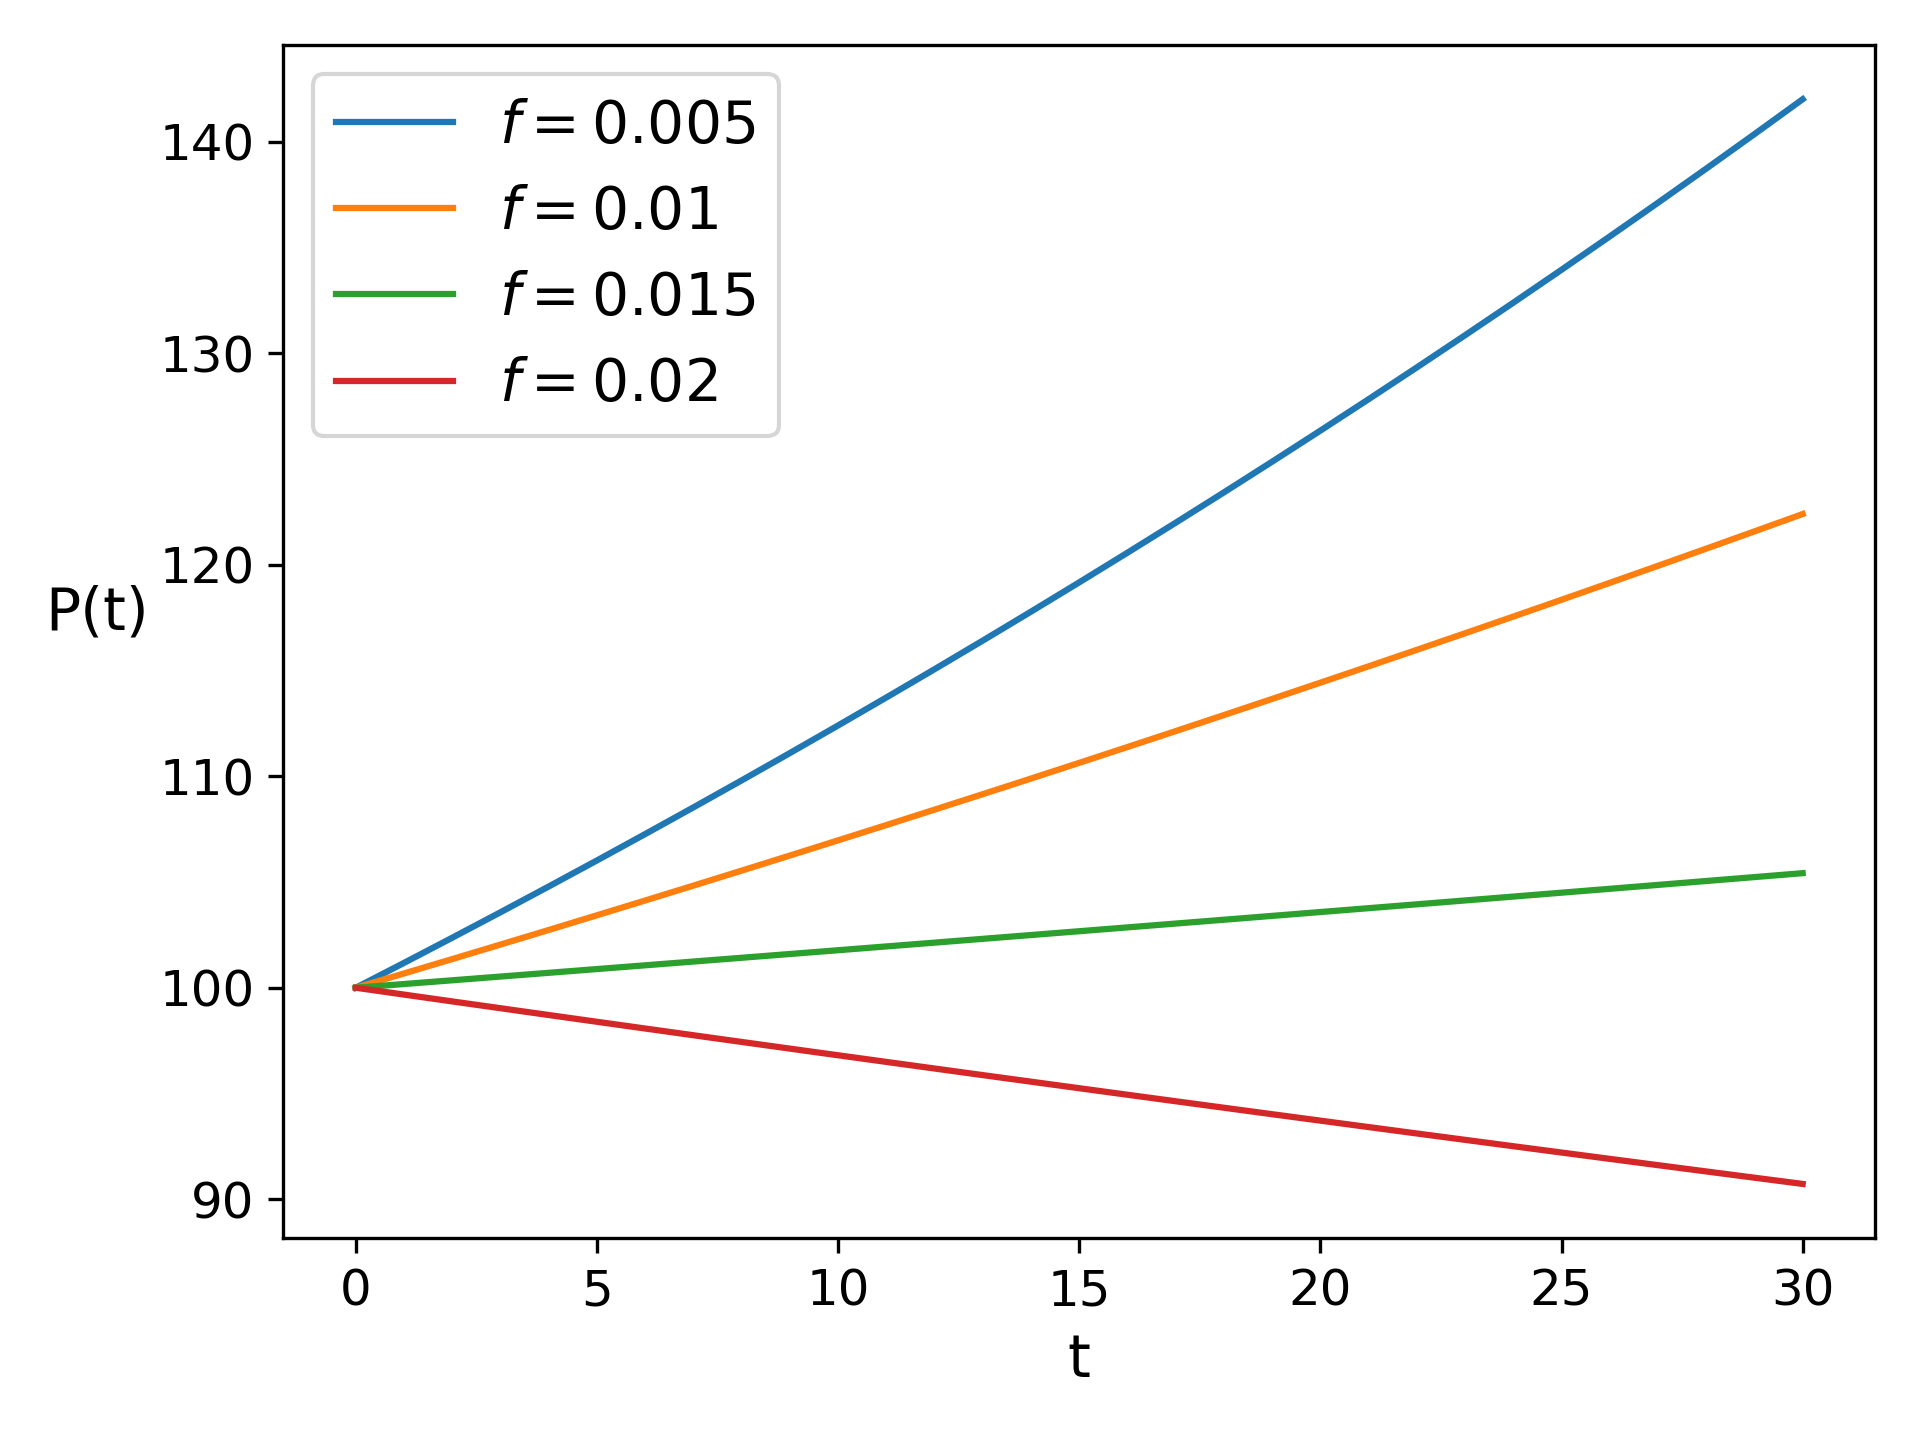
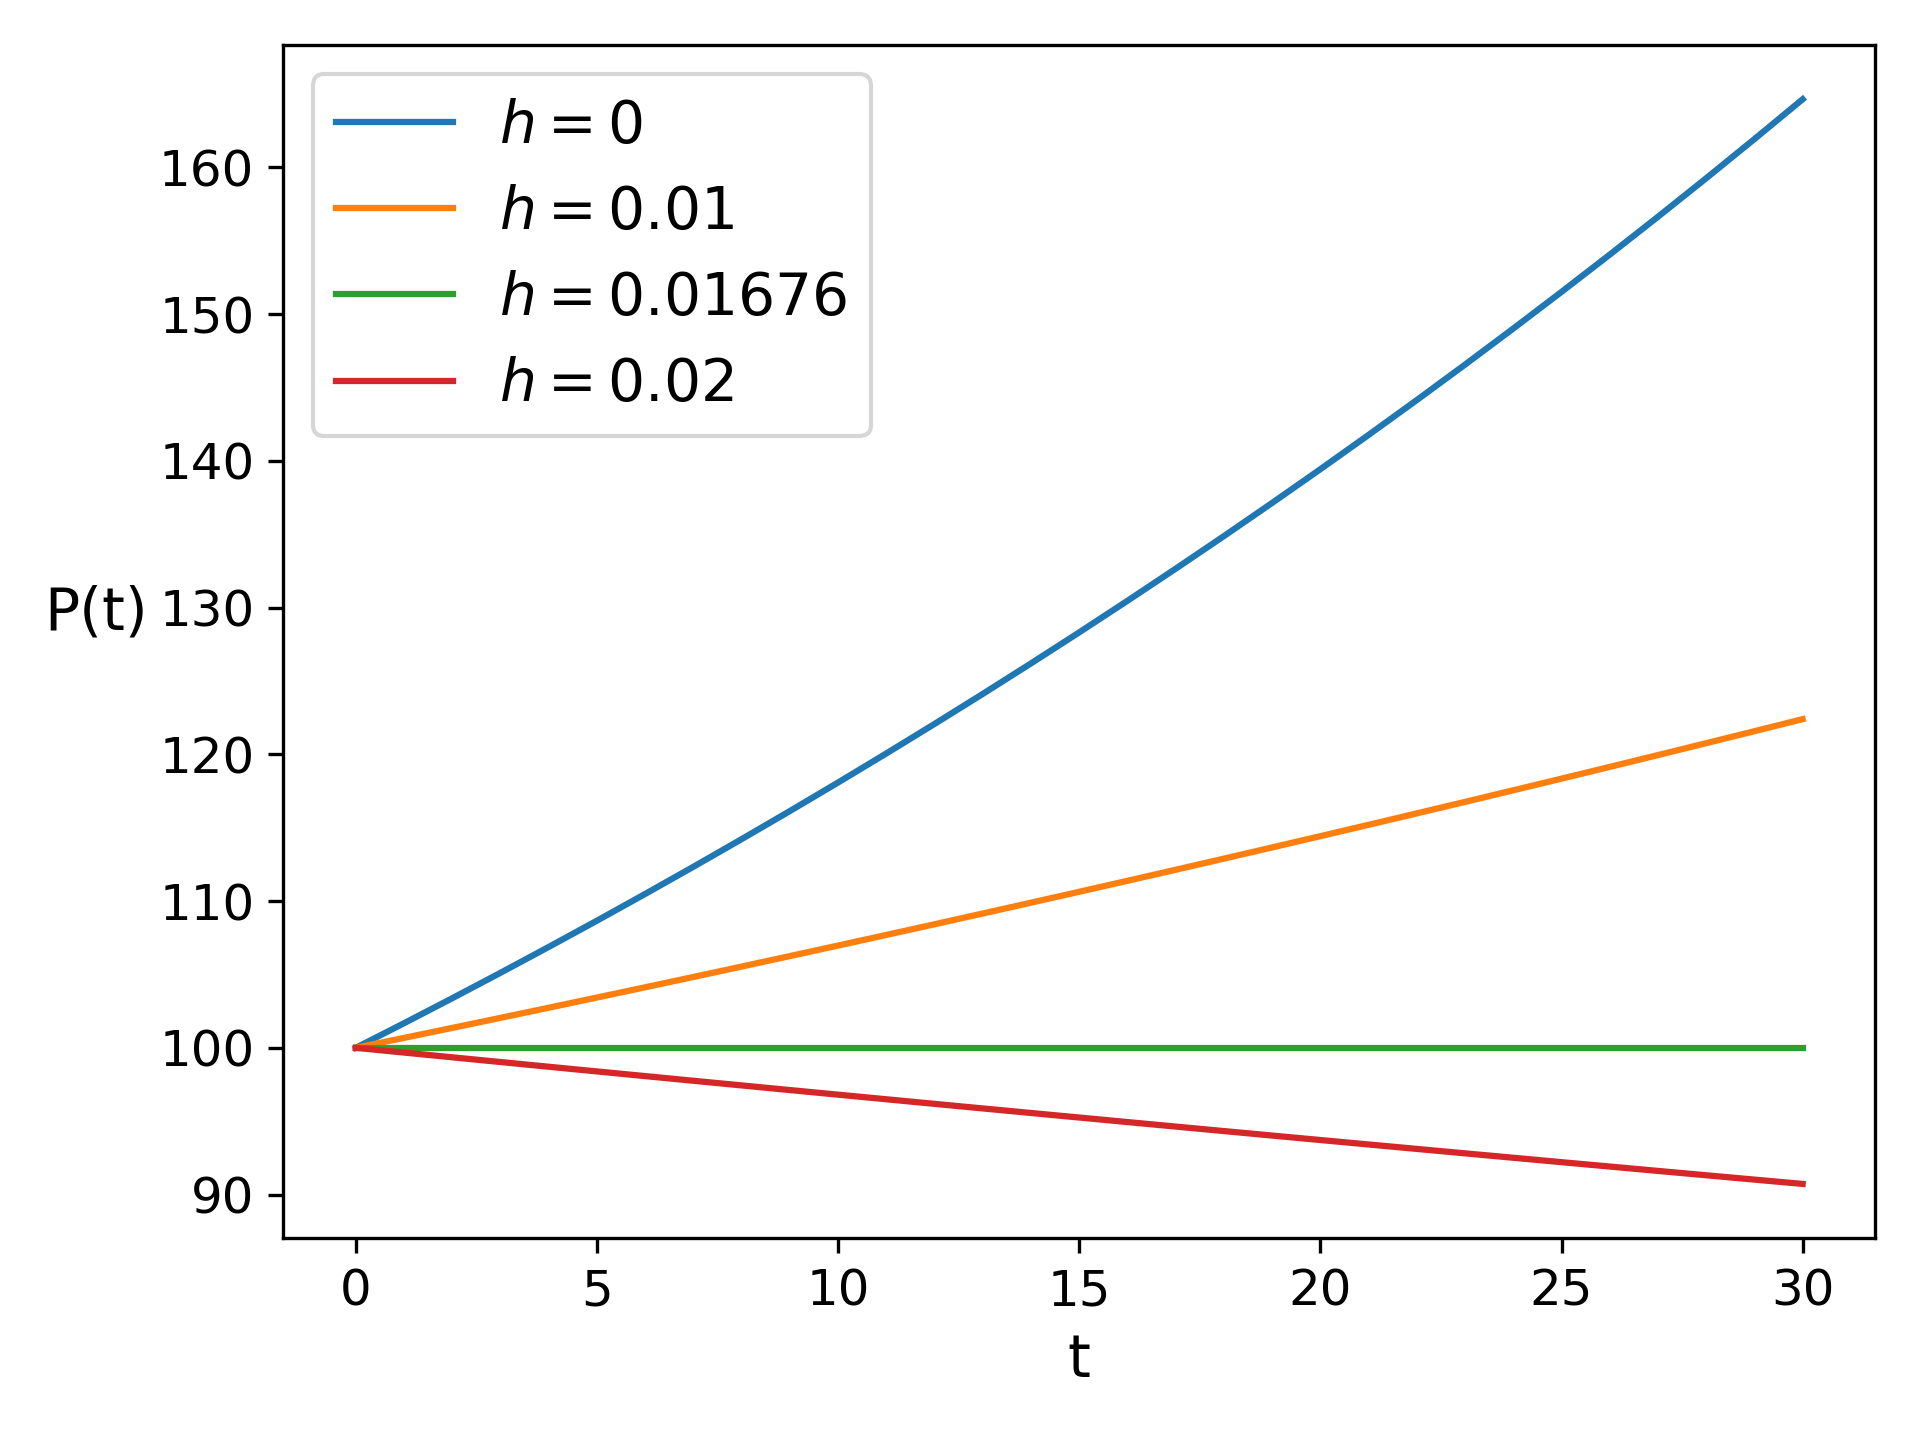
refined hunting simulation data and graphs

diff --git a/q2-percentage.py b/q2-percentage.py
@@ -1,0 +1,47 @@
+import matplotlib.pyplot as plt
+import numpy as np
+
+# Our growth rate in the "best of cases"
+r = 0.01676
+
+# Our initial population
+P = 100
+
+# Our two time frames
+SHORT_TERM = 30
+LONG_TERM = 70
+
+# fixed percentage hunting rates
+h = [0, 0.01, r, 0.02]
+
+# populations for each hunting type
+p = [[P] for _ in range(len(h))]
+
+# Now we gather our "simulation" data
+# Following the equation P(t) = P(t-1) * (r + 1 - h) for percentage hunting
+for _ in range(LONG_TERM ):
+    for i in range(len(h)):
+        p[i].append(p[i][-1] * (r + 1 - h[i]))
+
+def config_plt():
+    plt.xlabel("t", fontsize=14)
+    plt.ylabel("P(t)", fontsize=14, rotation='horizontal', labelpad=15)
+    plt.legend(fontsize=14)
+    plt.xticks(fontsize=12)
+    plt.yticks(fontsize=12)
+    plt.tight_layout()
+
+# Plot the collected data for percentage hunting
+t = np.arange(SHORT_TERM + 1)
+for i, pop in enumerate(p):
+    plt.plot(t, pop[:SHORT_TERM + 1], label = f"$h = {h[i]}$")
+config_plt()
+plt.savefig('./hunting/percentage_short_term.png', dpi=300)
+plt.close()
+
+t = np.arange(LONG_TERM + 1)
+for i, pop in enumerate(p):
+    plt.plot(t, pop, label = f"$h = {h[i]}$")
+config_plt()
+plt.savefig('./hunting/percentage_long_term.png', dpi=300)
+plt.close()

diff --git a/q2-amount.py b/q2-amount.py
@@ -1,0 +1,47 @@
+import matplotlib.pyplot as plt
+import numpy as np
+
+# Our growth rate in the "best of cases"
+r = 0.01676
+
+# Our initial population
+P = 100
+
+# Our two time frames
+SHORT_TERM = 30
+LONG_TERM = 70
+
+# fixed hunting amounts
+f = [0, 1, 2, 3]
+
+# populations for each hunting type
+p = [[P] for _ in range(len(f))]
+
+# Now we gather our "simulation" data
+# Following the equation P(t) = P(t-1) * (r + 1) - f for amount hunting
+for _ in range(LONG_TERM ):
+    for i in range(len(f)):
+        p[i].append(p[i][-1] * (r + 1) - f[i])
+
+def config_plt():
+    plt.xlabel("t", fontsize=14)
+    plt.ylabel("P(t)", fontsize=14, rotation='horizontal', labelpad=15)
+    plt.legend(fontsize=14)
+    plt.xticks(fontsize=12)
+    plt.yticks(fontsize=12)
+    plt.tight_layout()
+
+# Plot the collected data for amount hunting
+t = np.arange(SHORT_TERM + 1)
+for i, pop in enumerate(p):
+    plt.plot(t, pop[:SHORT_TERM + 1], label = f"$f = {f[i]}$")
+config_plt()
+plt.savefig('./hunting/amount_short_term.png', dpi=300)
+plt.close()
+
+t = np.arange(LONG_TERM + 1)
+for i, pop in enumerate(p):
+    plt.plot(t, pop, label = f"$f = {f[i]}$")
+config_plt()
+plt.savefig('./hunting/amount_long_term.png', dpi=300)
+plt.close()
